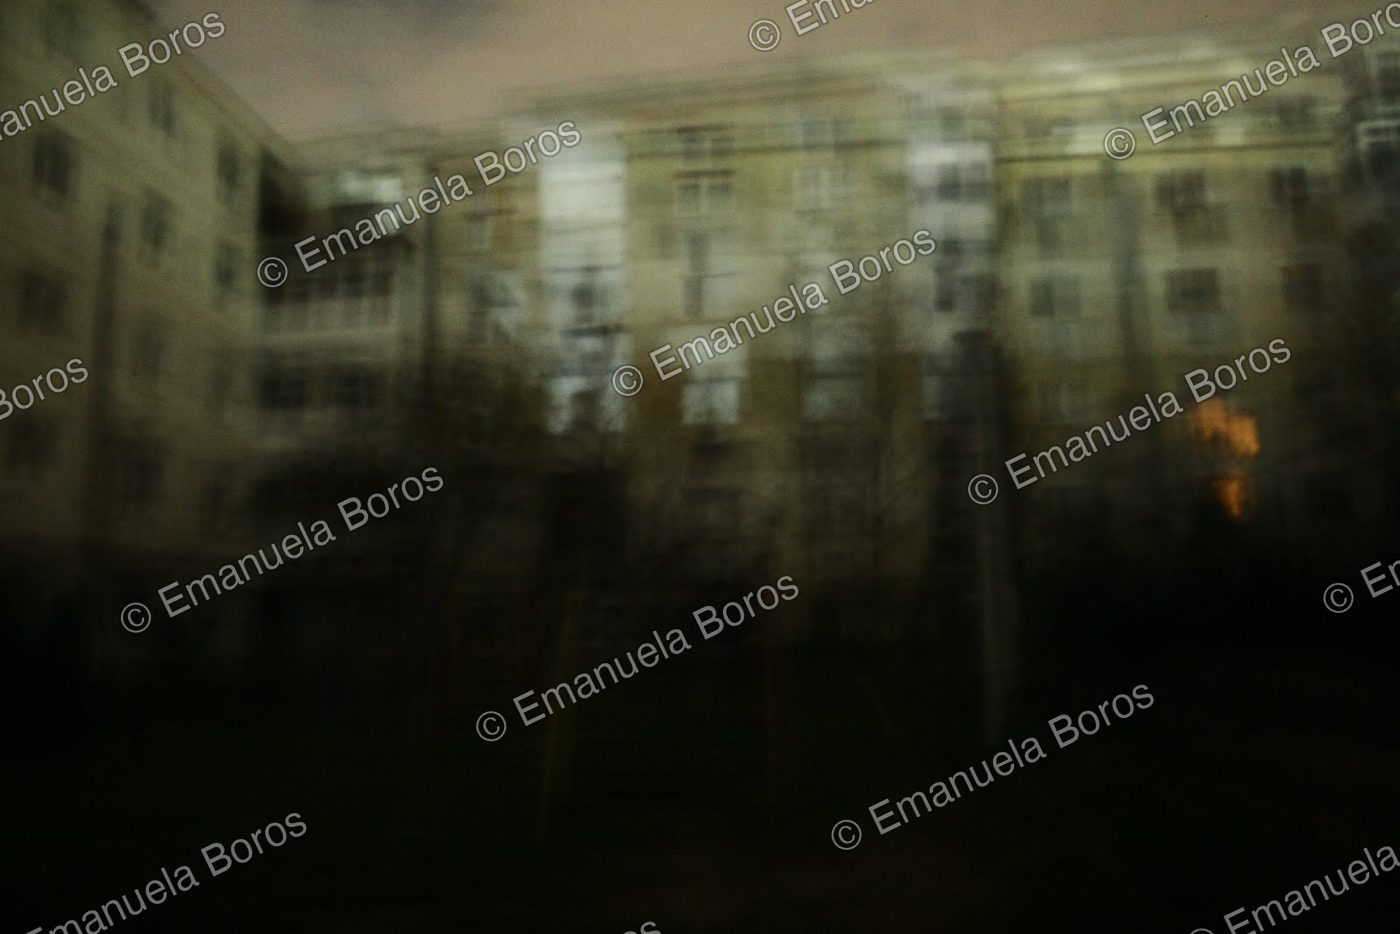
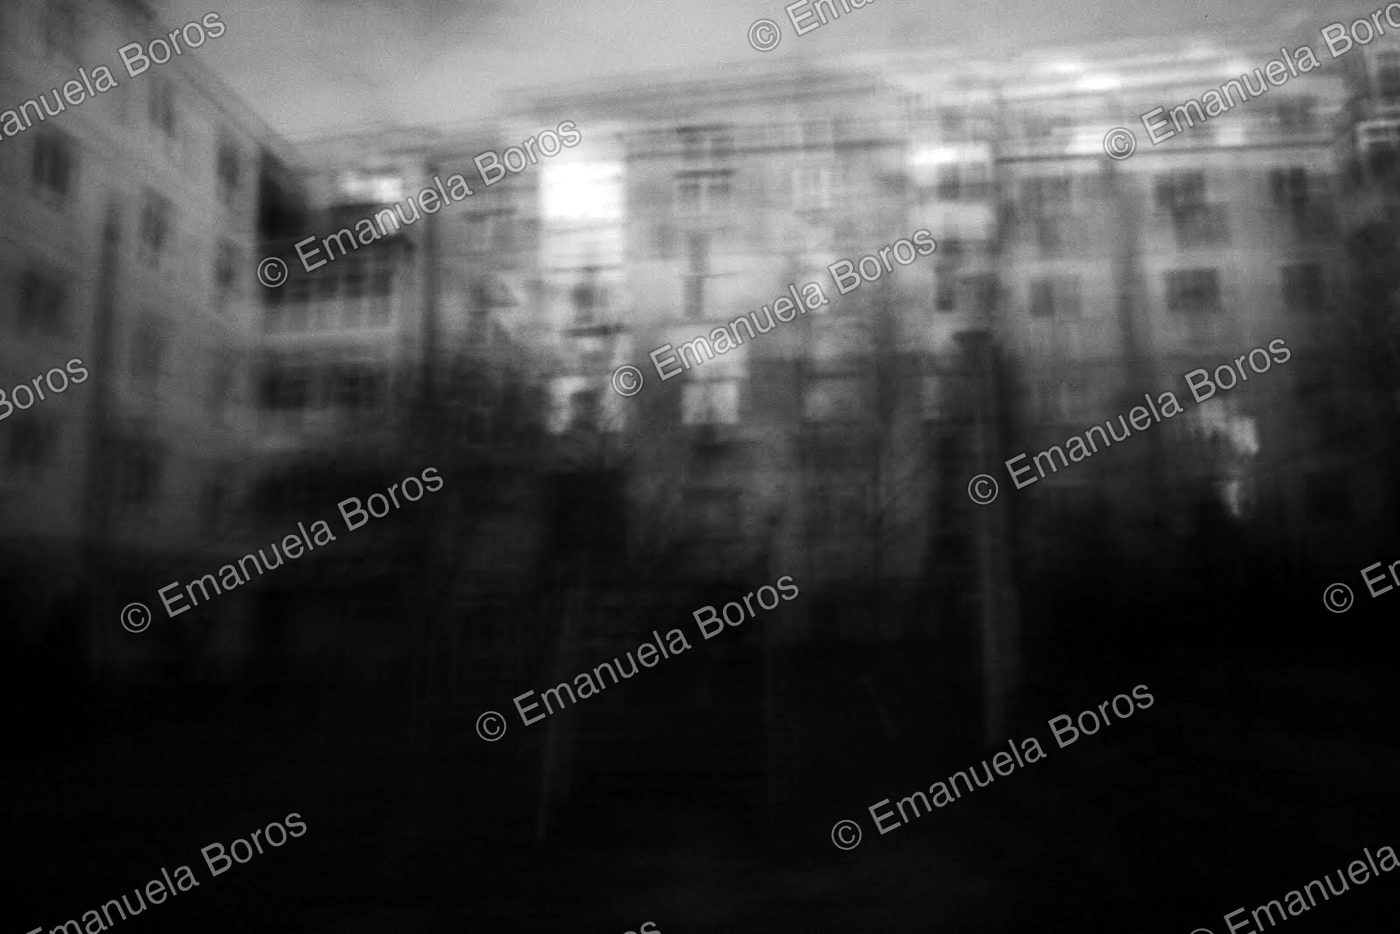
Too Drunk to Keep You in My Mind: new text; make the whole series black and white

diff --git a/projects/too-drunk-to-keep-you-in-my-mind.html b/projects/too-drunk-to-keep-you-in-my-mind.html
@@ -40,7 +40,7 @@
             <span>night photographs</span>
           </div>
         </div>
-        <p class="project-description">Night and low-light photographs: a lit doorway, a wet street under lamps, dark rooms and windows. The title comes from a handwritten caption on the first two photographs, from 2007.</p>
+        <p class="project-description"><em>Too Drunk to Keep You in My Mind</em> (2007–2009) is about what stays when someone begins to go. The title comes from a caption I wrote by hand on the first two photographs. Black and white is how memory works: the colour goes first, and then everything that doesn’t shine. Night is the same kind of forgetting, a darkness that decides what can still be seen and lets the rest go without asking. Blur is what drinking does to looking. You try to hold a face in your mind, and the harder you look, the less of it stays. Then there is the one image of me, and here the blur changes meaning. Shyness hands the camera to someone else, as if another person’s eyes could hold what mine can’t. They can’t. Without the night or the drink to blame, I still don’t come into focus. The title says I couldn’t keep you. The photograph adds that I was not easy to keep either.</p>
       </section>
 
 
